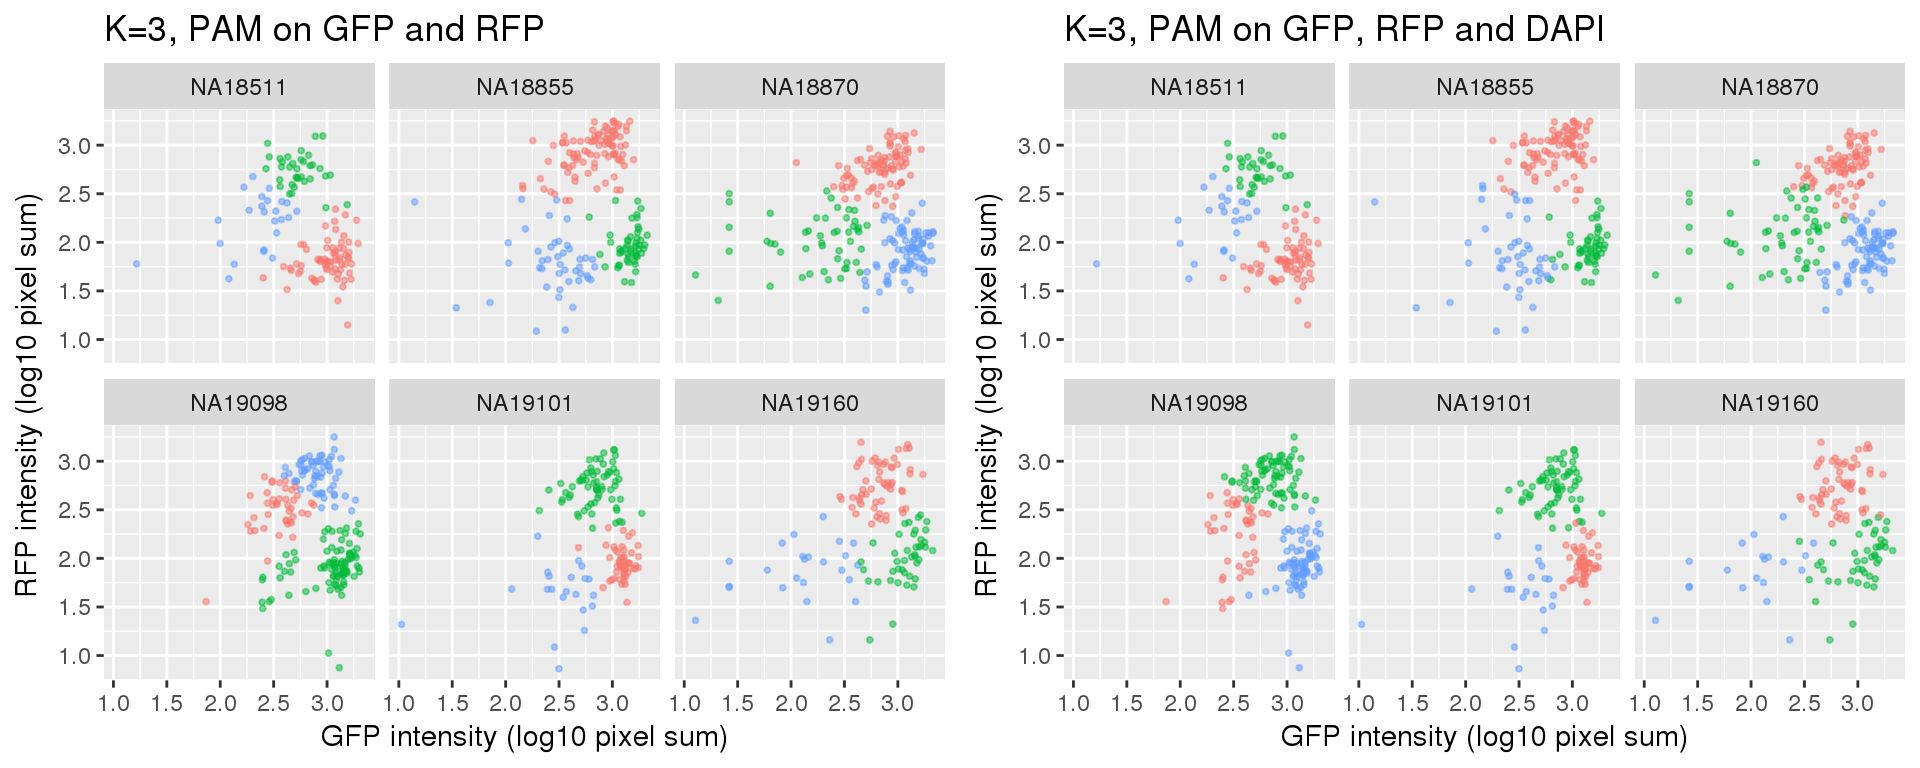
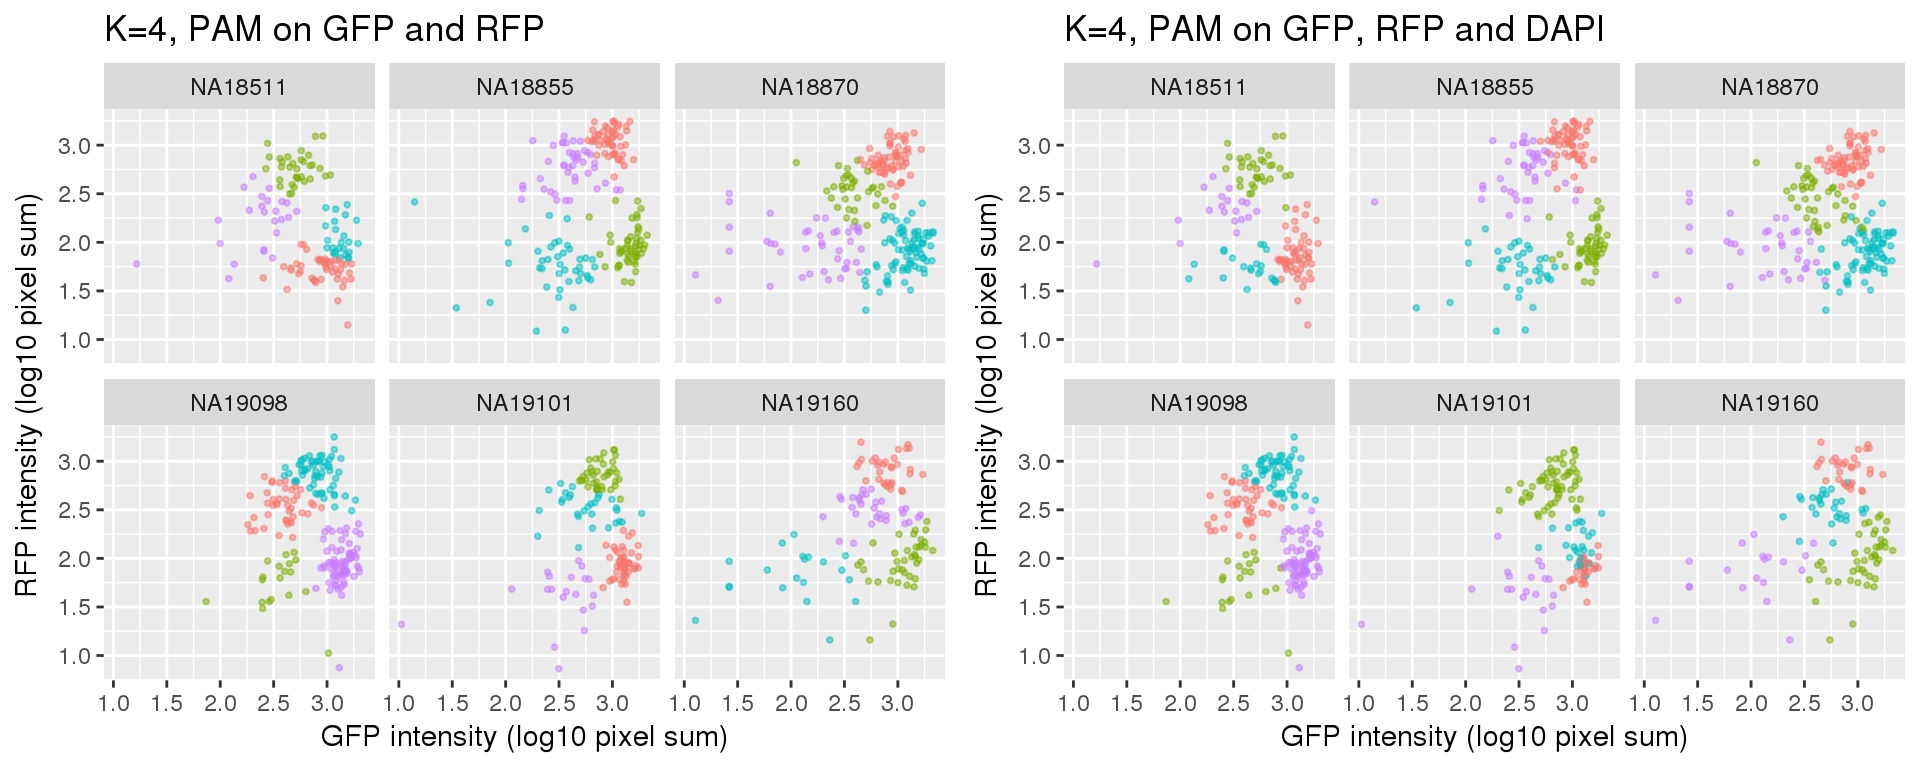
Build site.

diff --git a/docs/images-pam.html b/docs/images-pam.html
@@ -319,10 +319,10 @@ div.section {
 shared across the workflowr files. -->
 <!-- Update knitr chunk options -->
 <!-- Insert the date the file was last updated -->
-<p><strong>Last updated:</strong> 2018-01-26</p>
+<p><strong>Last updated:</strong> 2018-02-23</p>
 <!-- Insert the code version (Git commit SHA1) if Git repository exists and R
  package git2r is installed -->
-<p><strong>Code version:</strong> 6aa2392</p>
+<p><strong>Code version:</strong> 7e30faa</p>
 <hr />
 <div id="overviewresults" class="section level2">
 <h2>Overview/Results</h2>
@@ -346,27 +346,24 @@ library(ggplot2)
 library(cowplot)
 library(cluster)
 library(data.table)</code></pre>
-<p>Load data</p>
+<p>Load data the intensities adjusted for batch effect.</p>
 <pre class="r"><code>df &lt;- readRDS(file=&quot;../data/eset-filtered.rds&quot;)
 pdata &lt;- pData(df)
 fdata &lt;- fData(df)
 
-# select endogeneous genes
-counts &lt;- exprs(df)[grep(&quot;ERCC&quot;, rownames(df), invert=TRUE), ]
+# # select endogeneous genes
+# counts &lt;- exprs(df)[grep(&quot;ERCC&quot;, rownames(df), invert=TRUE), ]
+# 
+# # cpm normalization
+# log2cpm &lt;- log2(t(t(counts+1)*(10^6)/colSums(counts)))
 
-# cpm normalization
-log2cpm &lt;- log2(t(t(counts+1)*(10^6)/colSums(counts)))</code></pre>
-<p>select cell cycle genes</p>
-<pre class="r"><code>cellcycle &lt;- readRDS(&quot;../data/cellcycle-genes-previous-studies/rds/macosko-2017.rds&quot;)
-which_cc &lt;- which(rownames(log2cpm) %in% cellcycle$ensembl)
-
-log2cpm_cc &lt;- log2cpm[which_cc, ]</code></pre>
+pdata.adj &lt;- readRDS(&quot;../output/images-normalize-anova.Rmd/pdata.adj.rds&quot;)</code></pre>
 <hr />
 </div>
-<div id="analysis" class="section level2">
-<h2>Analysis</h2>
+<div id="raw-data" class="section level2">
+<h2>Raw data</h2>
 <p>Fitting PAM for cells using only green and red intensity measurements.</p>
-<pre class="r"><code>ints &lt;- with(pdata, data.frame(rfp.median.log10sum,
+<pre class="r"><code>ints &lt;- with(pdata.adj, data.frame(rfp.median.log10sum,
                                gfp.median.log10sum,
                                dapi.median.log10sum))
 ints &lt;- data.frame(ints, 
@@ -417,16 +414,74 @@ for (k in c(1:length(k_list))) {
   }))
   pam_fit_green_red_dapi_plot[[k]] &lt;- pp
 }</code></pre>
+<p><strong>k=3</strong></p>
+<p><img src="figure/images-pam.Rmd/unnamed-chunk-5-1.png" width="960" style="display: block; margin: auto;" /></p>
+<p><strong>k=4</strong></p>
+<p><img src="figure/images-pam.Rmd/unnamed-chunk-6-1.png" width="960" style="display: block; margin: auto;" /></p>
+<p><strong>k=3 versus k=4</strong></p>
+<p><img src="figure/images-pam.Rmd/unnamed-chunk-7-1.png" width="960" style="display: block; margin: auto;" /></p>
 <hr />
 </div>
-<div id="results" class="section level2">
-<h2>Results</h2>
+<div id="adjusted-data" class="section level2">
+<h2>Adjusted data</h2>
+<p>Fitting PAM for cells using only green and red intensity measurements.</p>
+<pre class="r"><code>ints &lt;- with(pdata.adj, data.frame(rfp.median.log10sum.adjust.ash,
+                               gfp.median.log10sum.adjust.ash,
+                               dapi.median.log10sum.adjust.ash))
+ints &lt;- data.frame(ints, 
+                   chip_id = as.factor(pdata$chip_id))
+
+k_list &lt;- c(3:4)
+
+pam_fit_green_red &lt;- lapply(k_list, function(k) {
+  fit &lt;- lapply(1:uniqueN(ints$chip_id), function(i) {
+    df_sub &lt;- subset(ints, chip_id==unique(chip_id)[i], 
+                     select = -c(chip_id, dapi.median.log10sum.adjust.ash))
+    fit_sub &lt;- pam(df_sub, k=k, diss=F)
+    return(fit_sub)
+  })
+  names(fit) &lt;- unique(ints$chip_id)
+  return(fit)
+})
+names(pam_fit_green_red) &lt;- paste0(&quot;k&quot;, k_list)
+
+pam_fit_green_red_plot &lt;- vector(&quot;list&quot;, length(pam_fit_green_red))
+for (k in c(1:length(k_list))) {
+  pp &lt;- do.call(rbind, lapply(1:uniqueN(ints$chip_id), function(i) {
+    df_sub &lt;- subset(ints, chip_id==unique(chip_id)[i])
+    df_sub &lt;- data.frame(df_sub, cluster=as.factor(pam_fit_green_red[[k]][[i]]$clustering))
+    return(df_sub)
+  }))
+  pam_fit_green_red_plot[[k]] &lt;- pp
+}</code></pre>
+<p>Fitting PAM for cells using all three intensity measurements.</p>
+<pre class="r"><code>pam_fit_green_red_dapi &lt;- lapply(k_list, function(k) {
+  fit &lt;- lapply(1:uniqueN(ints$chip_id), function(i) {
+    df_sub &lt;- subset(ints, chip_id==unique(chip_id)[i], 
+                     select = -chip_id)
+    fit_sub &lt;- pam(df_sub, k=k, diss=F)
+    return(fit_sub)
+  })
+  names(fit) &lt;- unique(ints$chip_id)
+  return(fit)
+})
+names(pam_fit_green_red_dapi) &lt;- paste0(&quot;k&quot;, k_list)
+
+pam_fit_green_red_dapi_plot &lt;- vector(&quot;list&quot;, length(pam_fit_green_red_dapi))
+for (k in c(1:length(k_list))) {
+  pp &lt;- do.call(rbind, lapply(1:uniqueN(ints$chip_id), function(i) {
+    df_sub &lt;- subset(ints, chip_id==unique(chip_id)[i])
+    df_sub &lt;- data.frame(df_sub, cluster=as.factor(pam_fit_green_red_dapi[[k]][[i]]$clustering))
+    return(df_sub)
+  }))
+  pam_fit_green_red_dapi_plot[[k]] &lt;- pp
+}</code></pre>
 <p><strong>k=3</strong></p>
-<p><img src="figure/images-pam.Rmd/unnamed-chunk-6-1.png" width="960" style="display: block; margin: auto;" /></p>
+<p><img src="figure/images-pam.Rmd/unnamed-chunk-10-1.png" width="960" style="display: block; margin: auto;" /></p>
 <p><strong>k=4</strong></p>
-<p><img src="figure/images-pam.Rmd/unnamed-chunk-7-1.png" width="960" style="display: block; margin: auto;" /></p>
+<p><img src="figure/images-pam.Rmd/unnamed-chunk-11-1.png" width="960" style="display: block; margin: auto;" /></p>
 <p><strong>k=3 versus k=4</strong></p>
-<p><img src="figure/images-pam.Rmd/unnamed-chunk-8-1.png" width="960" style="display: block; margin: auto;" /></p>
+<p><img src="figure/images-pam.Rmd/unnamed-chunk-12-1.png" width="960" style="display: block; margin: auto;" /></p>
 <hr />
 </div>
 <div id="session-information" class="section level2">
@@ -455,13 +510,13 @@ other attached packages:
 [4] ggplot2_2.2.1       Biobase_2.38.0      BiocGenerics_0.24.0
 
 loaded via a namespace (and not attached):
- [1] Rcpp_0.12.14     knitr_1.17       magrittr_1.5     munsell_0.4.3   
- [5] colorspace_1.3-2 rlang_0.1.4      stringr_1.2.0    plyr_1.8.4      
- [9] tools_3.4.1      grid_3.4.1       gtable_0.2.0     git2r_0.20.0    
-[13] htmltools_0.3.6  yaml_2.1.16      lazyeval_0.2.1   rprojroot_1.3-1 
-[17] digest_0.6.13    tibble_1.3.4     evaluate_0.10.1  rmarkdown_1.8   
-[21] labeling_0.3     stringi_1.1.6    compiler_3.4.1   scales_0.5.0    
-[25] backports_1.1.2 </code></pre>
+ [1] Rcpp_0.12.15     knitr_1.20       magrittr_1.5     munsell_0.4.3   
+ [5] colorspace_1.3-2 rlang_0.2.0      stringr_1.3.0    plyr_1.8.4      
+ [9] tools_3.4.1      grid_3.4.1       gtable_0.2.0     git2r_0.21.0    
+[13] htmltools_0.3.6  yaml_2.1.16      lazyeval_0.2.1   rprojroot_1.3-2 
+[17] digest_0.6.15    tibble_1.4.2     evaluate_0.10.1  rmarkdown_1.8   
+[21] labeling_0.3     stringi_1.1.6    compiler_3.4.1   pillar_1.1.0    
+[25] scales_0.5.0     backports_1.1.2 </code></pre>
 </div>
 
 <!-- Adjust MathJax settings so that all math formulae are shown using
